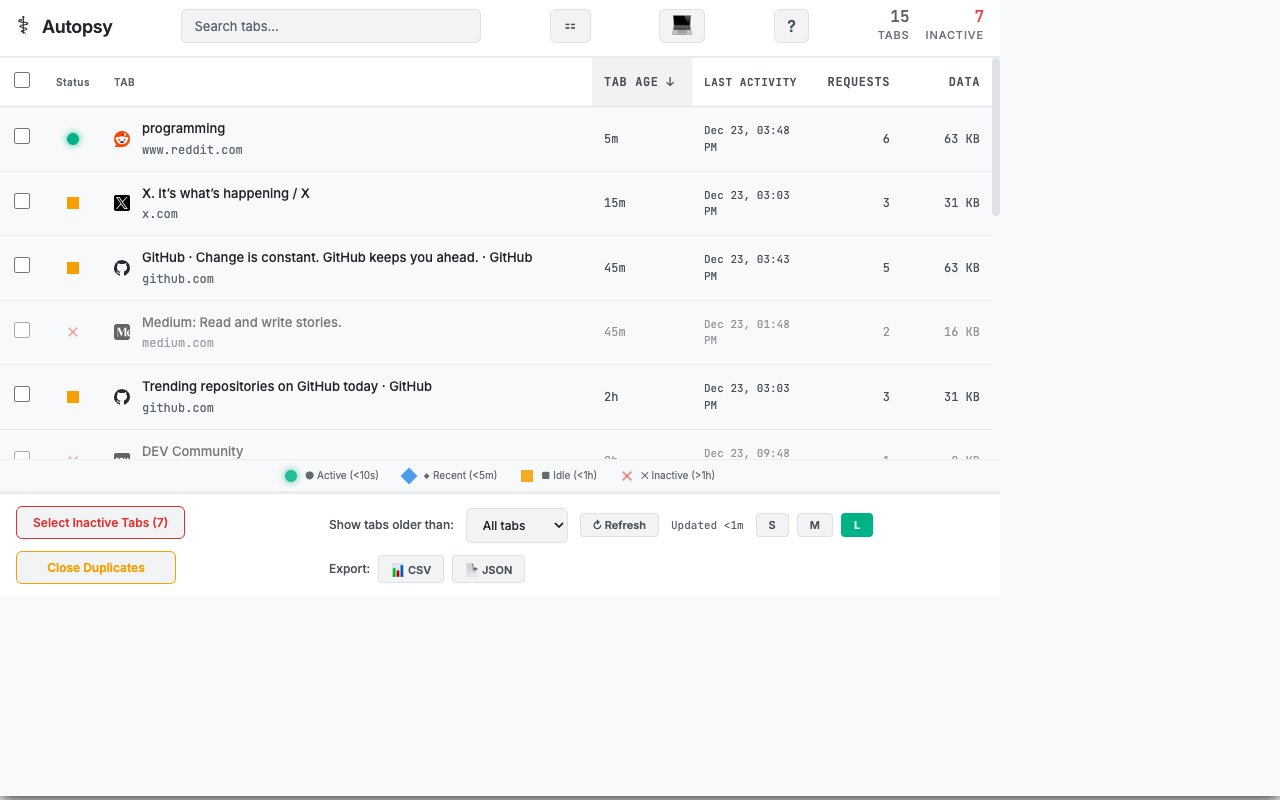
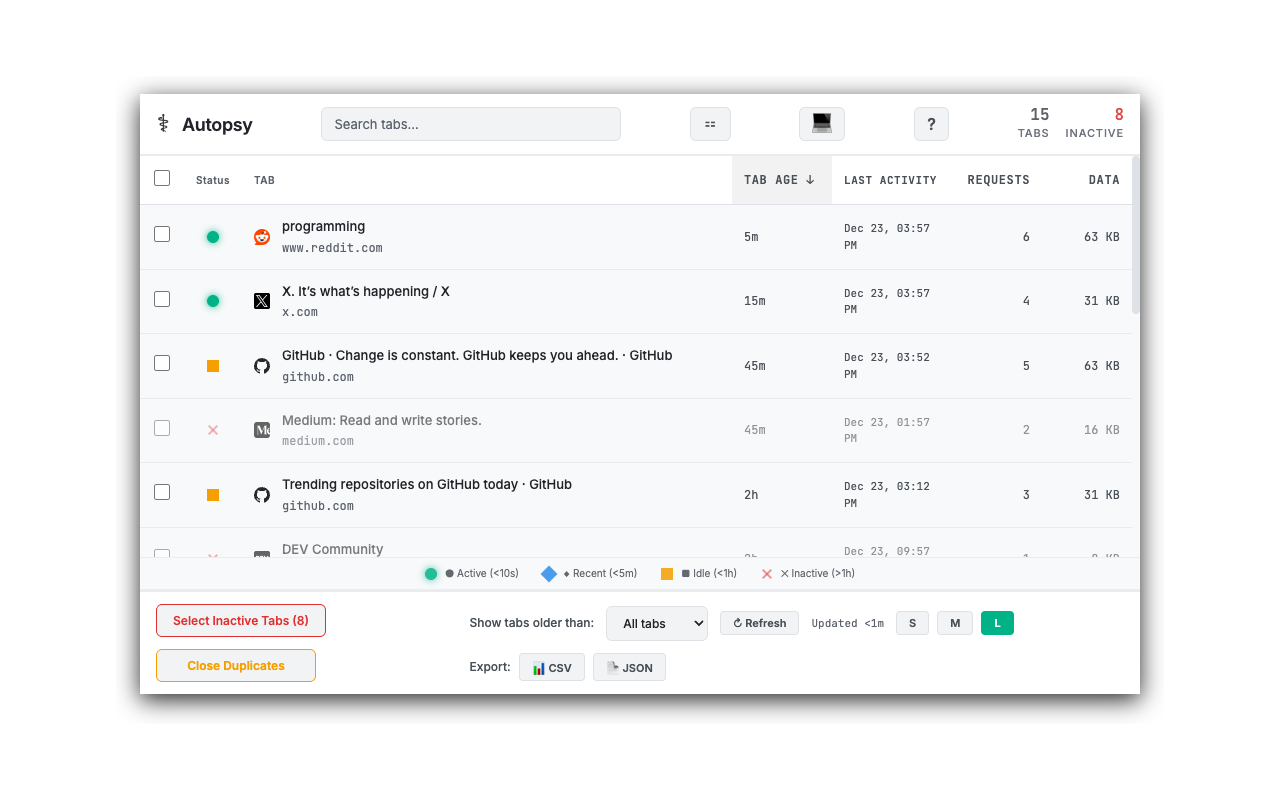
fix: center extension with drop shadow on 1280x800 canvas
- Capture just .app element (1000x600) instead of full viewport
- Add prominent drop shadow (85% opacity, 12px blur, 6px offset)
- Center on 1280x800 white canvas
- Whitespace now clearly intentional with floating card effect
- All 7 screenshots updated

diff --git a/scripts/capture-screenshots.js b/scripts/capture-screenshots.js
@@ -245,10 +245,10 @@ async function main() {
     console.log('   ⚠ Could not sort by age, continuing...');
   }
 
-  // Capture the full page at viewport size (1280x800)
-  await popup1.screenshot({
+  // Capture just the extension popup
+  const appElement = await popup1.$('.app');
+  await appElement.screenshot({
     path: join(screenshotsPath, '01-main-interface.png'),
-    fullPage: false
   });
   console.log('   ✓ Saved: 01-main-interface.png');
 
@@ -278,10 +278,10 @@ async function main() {
     console.log('   ⚠ Could not navigate with keyboard, continuing...');
   }
 
-  // Capture the full page at viewport size (1280x800)
-  await popup2.screenshot({
+  // Capture just the extension popup
+  const appElement2 = await popup2.$('.app');
+  await appElement2.screenshot({
     path: join(screenshotsPath, '02-keyboard-navigation.png'),
-    fullPage: false
   });
   console.log('   ✓ Saved: 02-keyboard-navigation.png');
 
@@ -310,10 +310,10 @@ async function main() {
     console.log('   ⚠ Could not open help modal, continuing...');
   }
 
-  // Capture the full page at viewport size (1280x800)
-  await popup3.screenshot({
+  // Capture just the extension popup
+  const appElement3 = await popup3.$('.app');
+  await appElement3.screenshot({
     path: join(screenshotsPath, '03-help-keyboard-shortcuts.png'),
-    fullPage: false
   });
   console.log('   ✓ Saved: 03-help-keyboard-shortcuts.png');
 
@@ -342,10 +342,10 @@ async function main() {
     console.log('   ⚠ Could not activate grouping, continuing...');
   }
 
-  // Capture the full page at viewport size (1280x800)
-  await popup4.screenshot({
+  // Capture just the extension popup
+  const appElement4 = await popup4.$('.app'); await appElement4.screenshot({
     path: join(screenshotsPath, '04-group-by-domain.png'),
-    fullPage: false
+    
   });
   console.log('   ✓ Saved: 04-group-by-domain.png');
 
@@ -378,10 +378,10 @@ async function main() {
     console.log('   ⚠ Could not cycle grouping, continuing...');
   }
 
-  // Capture the full page at viewport size (1280x800)
-  await popup5.screenshot({
+  // Capture just the extension popup
+  const appElement5 = await popup5.$('.app'); await appElement5.screenshot({
     path: join(screenshotsPath, '05-group-by-status.png'),
-    fullPage: false
+    
   });
   console.log('   ✓ Saved: 05-group-by-status.png');
 
@@ -411,10 +411,10 @@ async function main() {
     console.log('   ⚠ Could not select tabs, continuing...');
   }
 
-  // Capture the full page at viewport size (1280x800)
-  await popup6.screenshot({
+  // Capture just the extension popup
+  const appElement6 = await popup6.$('.app'); await appElement6.screenshot({
     path: join(screenshotsPath, '06-bulk-operations.png'),
-    fullPage: false
+    
   });
   console.log('   ✓ Saved: 06-bulk-operations.png');
 
@@ -445,10 +445,10 @@ async function main() {
     console.log('   ⚠ Could not change theme, continuing...');
   }
 
-  // Capture the full page at viewport size (1280x800)
-  await popup7.screenshot({
+  // Capture just the extension popup
+  const appElement7 = await popup7.$('.app'); await appElement7.screenshot({
     path: join(screenshotsPath, '07-light-theme.png'),
-    fullPage: false
+    
   });
   console.log('   ✓ Saved: 07-light-theme.png');
 
